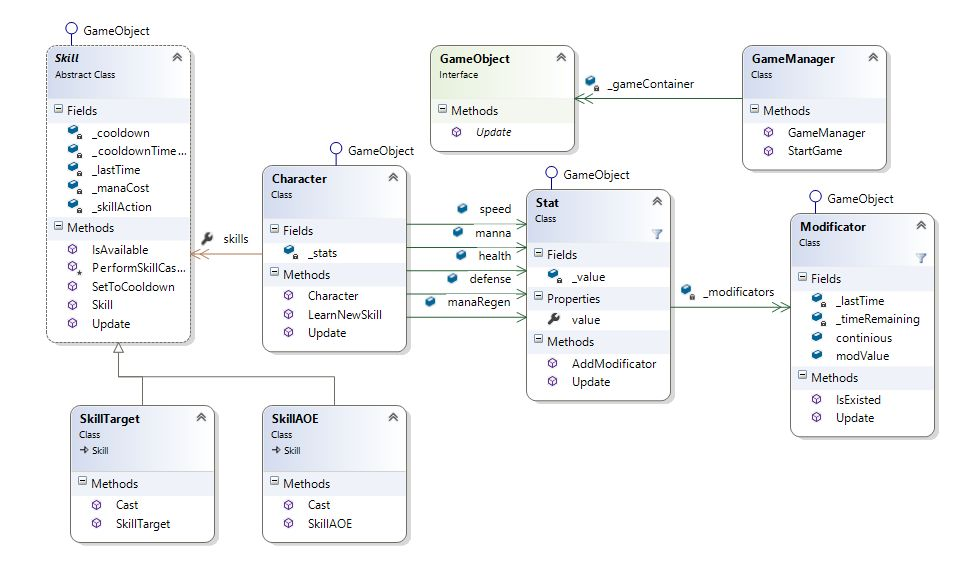
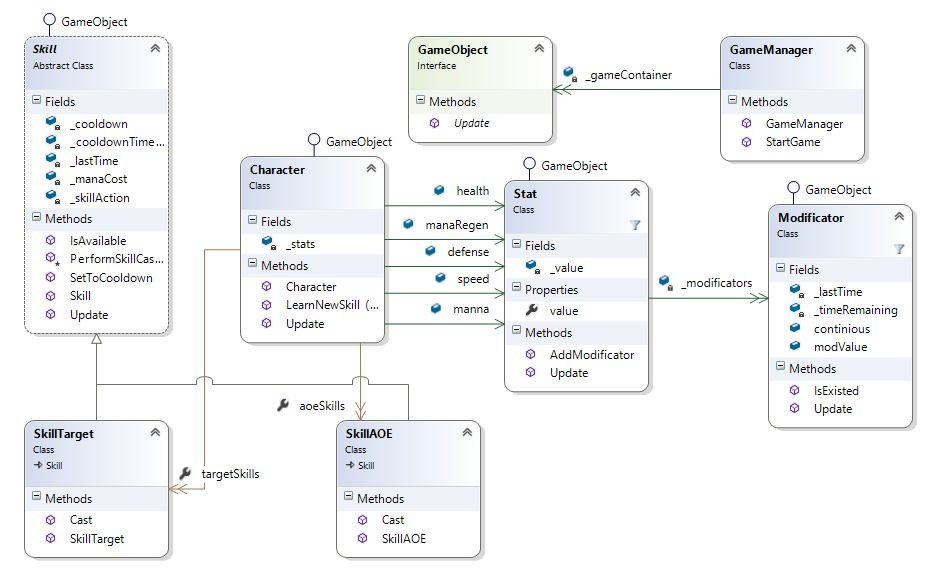
kick off static casts

Changed region(s): [[0.0, 0.0298, 0.9957, 0.7741], [0.0, 0.655, 0.529, 0.9825]]

diff --git a/GameRPGpingpong/SkillsFactory.cs b/GameRPGpingpong/SkillsFactory.cs
@@ -12,36 +12,39 @@ namespace GameRPGpingpong
 	{
 
 		// Positive skills
-		public static Skill StrengthOfGods() => 
+		public static SkillTarget StrengthOfGods() => 
 			new SkillTarget(50, 100, character => character.defense.AddModificator(new Modificator(+40, 40)));
 
-		public static Skill BulletEnergy() =>
+		public static SkillTarget BulletEnergy() =>
 			new SkillTarget(20, 15, character => character.speed.AddModificator(new Modificator(+50, 7)));
 
 		// Heals by 15 every second during 5 seconds. 75 at all
-		public static Skill TastyJuicefall() =>
+		public static SkillTarget TastyJuicefall() =>
 			new SkillTarget(45, 80, character => character.health.AddModificator(new Modificator(+15, 5, true)));
 
 		// Heals several characters by 20 during 4 sec.
-		public static Skill HealingWall() =>
+		public static SkillAOE HealingWall() =>
 			new SkillAOE(60, 120, character => character.health.AddModificator(new Modificator(+20, 4, true)));
 
 		// Negative skills
-		public static Skill ArmorBreak() =>
+		public static SkillTarget ArmorBreak() =>
 			new SkillTarget(40, 50, character => character.defense.AddModificator(new Modificator(-10, 30)));
 
-		public static Skill ManaBurn() =>
+		public static SkillTarget ManaBurn() =>
 			new SkillTarget(35, 20, character => character.manaRegen.AddModificator(new Modificator(-30, 15)));
 
 		// This skill will reduce character's mana by 8 every second during 10 seconds. 80 mana at all
-		public static Skill ManaVoid() =>
+		public static SkillTarget ManaVoid() =>
 			new SkillTarget(35, 140, character => character.manna.AddModificator(new Modificator(-8, 10, true)));
 
 		// This AOE skill will sets all characters' skills to cooldown
-		public static Skill ElectricShock() =>
+		public static SkillAOE ElectricShock() =>
 			new SkillAOE(50, 80, character =>
 			{
-				foreach (Skill skill in character.skills)
+				foreach (SkillAOE skill in character.aoeSkills)
+					skill.SetToCooldown();
+
+				foreach (SkillTarget skill in character.targetSkills)
 					skill.SetToCooldown();
 			});
 

diff --git a/GameRPGpingpong/Character.cs b/GameRPGpingpong/Character.cs
@@ -14,7 +14,8 @@ namespace GameRPGpingpong
 		public readonly Stat defense;
 		public readonly Stat manna;
 		
-		public List<Skill> skills { get; }
+		public List<SkillTarget> targetSkills { get; }
+		public List<SkillAOE> aoeSkills { get; }
 
 		private readonly List<Stat> _stats; 
 
@@ -25,10 +26,12 @@ namespace GameRPGpingpong
 			_stats.Add(this.manaRegen = new Stat(manaRegen));
 			_stats.Add(this.defense = new Stat(defense));
 			_stats.Add(manna = new Stat(100));
-			skills = new List<Skill>();
+			targetSkills = new List<SkillTarget>();
+			aoeSkills = new List<SkillAOE>();
 		}
 
-		public void LearnNewSkill(Skill skill) => skills.Add(skill);
+		public void LearnNewSkill(SkillTarget skill) => targetSkills.Add(skill);
+		public void LearnNewSkill(SkillAOE skill) => aoeSkills.Add(skill);
 		
 		/* Here will be some player controls or AI system to cast skills */
 
